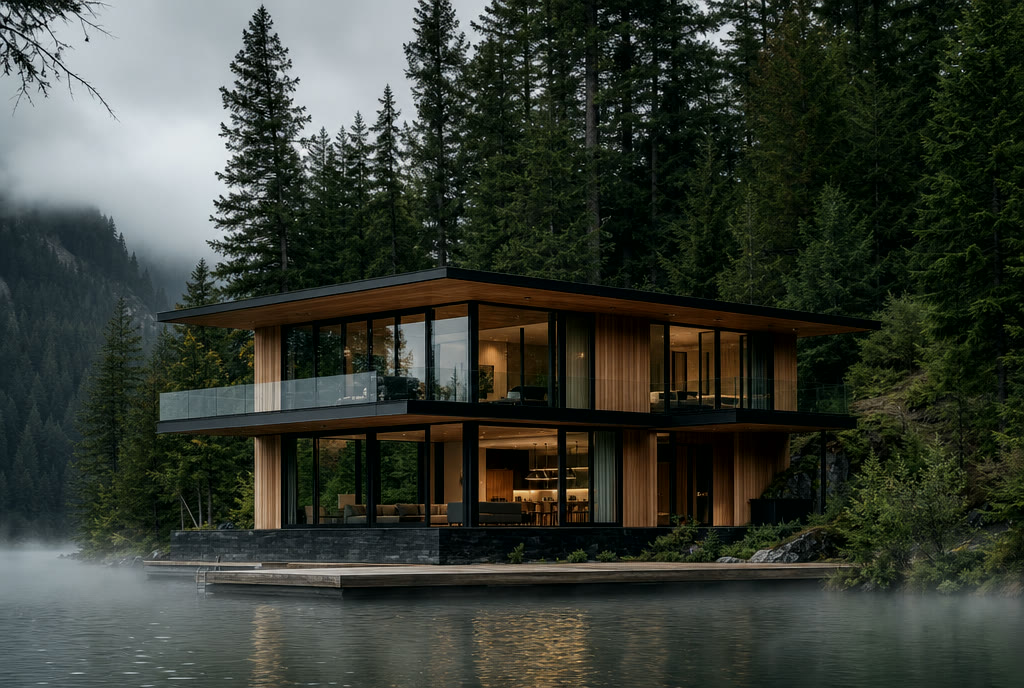
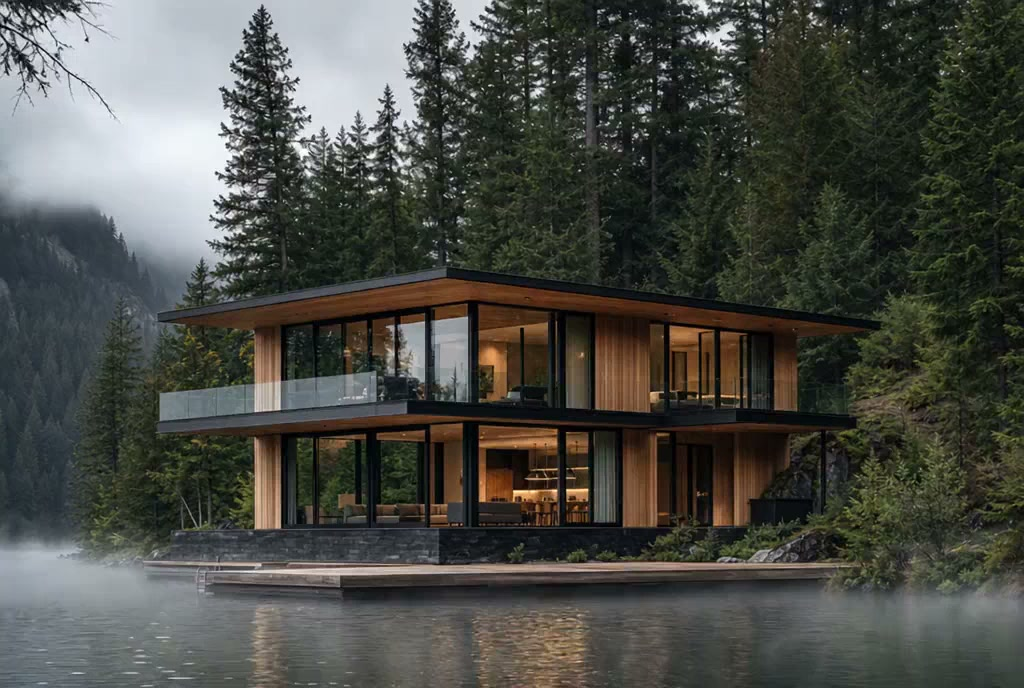
The flight: seven legs stitched, encoded for scrubbing, and working
37.3s of continuous camera move driven by scroll. Three bugs were worth the
trip, and all three now live in LESSON.md as stop points:

1. python -m http.server does not answer Range requests, so Chrome marks the
   media not seekable: readyState 4, duration correct, seekable.end(0) === 0,
   and every currentTime assignment clamps to zero. No error fires. The
   progress rail tracks the scroll perfectly while the picture stays frozen,
   which makes it look exactly like a JS bug. scripts/serve.py answers 206.

2. A `ready` flag set from a loadedmetadata listener attached after video.src
   raced and stayed false, skipping every seek. readyState is already the
   source of truth; the parallel flag only existed to get out of sync.

3. The CDN served two wrong objects for correct URLs, so two legs downloaded
   as duplicates of two others. Nothing downstream would have caught it -
   concat stitches the wrong order and the flight simply teleports. Legs are
   now identified by content: scripts/identify-legs.ps1 matches every clip's
   first and last frame against all ten anchors. Same image scores 1.1-3.9,
   a different room scores 40+, so the verdict is not a judgement call.

diff --git a/index.html b/index.html
@@ -2049,8 +2049,18 @@ legend { padding: 0; }
        scroll seven screens of black. */
     video.addEventListener('error', function () { section.classList.add('is-static'); });
 
-    var target = 0, current = 0, raf = null, ready = false;
-    video.addEventListener('loadedmetadata', function () { ready = true; tick(); });
+    var target = 0, current = 0, raf = null;
+
+    /* No `ready` flag. An earlier version set one from a loadedmetadata
+       listener attached just after video.src, which raced: metadata could
+       arrive before the listener, the flag stayed false, and every seek was
+       skipped forever. The symptom was cruel — the progress rail tracked the
+       scroll perfectly while the picture never moved, because the rail is
+       written after the seek block.
+       readyState is already the source of truth. Read it directly. */
+    video.addEventListener('loadedmetadata', kick);
+    video.addEventListener('loadeddata', kick);
+    function kick() { if (raf === null) raf = requestAnimationFrame(tick); }
 
     function progress() {
       var travel = section.offsetHeight - window.innerHeight;
@@ -2068,8 +2078,9 @@ legend { padding: 0; }
       if (Math.abs(target - current) < 0.0004) current = target;
 
       /* readyState >= 2 is a gate, not politeness: seeking before there is
-         data throws and leaves a black frame on screen. */
-      if (ready && video.readyState >= 2 && video.duration) {
+         data throws and leaves a black frame on screen. isFinite guards the
+         NaN duration a stream reports before metadata lands. */
+      if (video.readyState >= 2 && isFinite(video.duration)) {
         var t = current * video.duration;
         if (typeof video.fastSeek === 'function') video.fastSeek(t);
         else video.currentTime = t;

diff --git a/scripts/serve.py b/scripts/serve.py
@@ -1,0 +1,122 @@
+#!/usr/bin/env python3
+"""Static dev server that supports HTTP Range requests.
+
+Why this file exists instead of `python -m http.server`:
+
+The scroll-scrub technique is nothing but repeated assignment to
+`video.currentTime`. A browser will only honour that if it can fetch arbitrary
+byte ranges of the media file, which means the server has to answer
+`Range: bytes=...` with `206 Partial Content`.
+
+Python's stdlib SimpleHTTPRequestHandler does not. It ignores the Range header
+and returns the whole file with `200`. Chrome then marks the resource as not
+seekable: `video.seekable.end(0)` reads 0, every `currentTime` assignment
+clamps back to 0, and the flight is frozen on frame one.
+
+The cruel part is the symptom. `readyState` reaches 4, `duration` reads
+correctly, no error fires, and the progress rail tracks the scroll perfectly -
+so it looks exactly like a bug in your JavaScript. It is not. It is the server.
+
+Every real static host (nginx, Vercel, Netlify, GitHub Pages, S3, Cloudflare)
+supports Range out of the box, so this only ever bites in local development.
+
+    python scripts/serve.py           # http://localhost:8080
+    python scripts/serve.py 3000
+"""
+
+import os
+import re
+import sys
+from functools import partial
+from http.server import SimpleHTTPRequestHandler, ThreadingHTTPServer
+
+RANGE_RE = re.compile(r"bytes=(\d*)-(\d*)")
+
+
+class RangeHandler(SimpleHTTPRequestHandler):
+    def send_head(self):
+        header = self.headers.get("Range")
+        if not header:
+            return super().send_head()
+
+        path = self.translate_path(self.path)
+        if os.path.isdir(path):
+            return super().send_head()
+
+        match = RANGE_RE.fullmatch(header.strip())
+        if not match:
+            return super().send_head()
+
+        try:
+            handle = open(path, "rb")
+        except OSError:
+            self.send_error(404)
+            return None
+
+        size = os.fstat(handle.fileno()).st_size
+        start_raw, end_raw = match.groups()
+
+        if start_raw:
+            start = int(start_raw)
+            end = int(end_raw) if end_raw else size - 1
+        else:
+            # suffix form, "bytes=-500" means the last 500 bytes
+            start = max(0, size - int(end_raw))
+            end = size - 1
+
+        if start >= size:
+            handle.close()
+            self.send_response(416)
+            self.send_header("Content-Range", "bytes */%d" % size)
+            self.end_headers()
+            return None
+
+        end = min(end, size - 1)
+        handle.seek(start)
+
+        self.send_response(206)
+        self.send_header("Content-Type", self.guess_type(path))
+        self.send_header("Content-Range", "bytes %d-%d/%d" % (start, end, size))
+        self.send_header("Content-Length", str(end - start + 1))
+        self.send_header("Accept-Ranges", "bytes")
+        self.end_headers()
+        return _Window(handle, end - start + 1)
+
+    def end_headers(self):
+        # Advertise Range support on every response, and keep the browser from
+        # caching a stale build while you iterate.
+        self.send_header("Accept-Ranges", "bytes")
+        self.send_header("Cache-Control", "no-store")
+        super().end_headers()
+
+    def log_message(self, fmt, *args):
+        if "200" not in fmt % args and "206" not in fmt % args:
+            super().log_message(fmt, *args)
+
+
+class _Window:
+    """Reads at most `remaining` bytes, so copyfile stops at the range end."""
+
+    def __init__(self, handle, remaining):
+        self.handle = handle
+        self.remaining = remaining
+
+    def read(self, amount=-1):
+        if self.remaining <= 0:
+            return b""
+        if amount < 0 or amount > self.remaining:
+            amount = self.remaining
+        chunk = self.handle.read(amount)
+        self.remaining -= len(chunk)
+        return chunk
+
+    def close(self):
+        self.handle.close()
+
+
+if __name__ == "__main__":
+    port = int(sys.argv[1]) if len(sys.argv) > 1 else 8080
+    root = os.path.dirname(os.path.dirname(os.path.abspath(__file__)))
+    handler = partial(RangeHandler, directory=root)
+    print("Serving %s on http://localhost:%d  (Range requests enabled)" % (root, port))
+    ThreadingHTTPServer(("", port), handler).serve_forever()

diff --git a/LESSON.md b/LESSON.md
@@ -45,6 +45,7 @@ scroll position  →  video.currentTime
 | חשבון Kolbo עם MCP מחובר | לייצר תמונות ווידאו |
 | חשבון Higgsfield (אופציונלי) | חלופה לוידאו |
 | ffmpeg מותקן | לקדד את הווידאו לגלילה |
+| שרת שתומך ב-HTTP Range | בלעדיו הסקראב מת. scripts/serve.py בריפו |
 | כ-1,300 קרדיטים | ראה טבלת עלויות למטה |
 
 לבדוק ש-ffmpeg עובד:
@@ -382,8 +383,42 @@ Subtle looping motion only: mist drifting right to left, small ripples on the
 water, leaves moving slightly. Everything else stays still.
 ```
 
-**פרומפט קצר מנצח פרומפט ארוך.** מודלי וידאו מוסיפים תנועה בנדיבות, וכל סעיף
-נוסף הוא עוד משהו להילחם בו.
+> **⚠ עצירה — הפרומפט הזה נכשל אצלנו, והכישלון שווה יותר מהתיקון.**
+>
+> הרצנו בדיוק את הפרומפט הזה. הווידאו חזר תקין: 151 פריימים, נגן, `readyState 4`,
+> ה-`currentTime` התקדם. **ולא זזה בו שום דבר.**
+>
+> ```text
+> scene_score בין פריימים עוקבים : 0.0001 – 0.004   (אפס מעשי)
+> הפרש בהירות פריים 0 מול פריים 150 : 3.1 מתוך 255   (1.2%)
+> ```
+>
+> תסתכל למה. בפרומפט יש **ארבע שלילות** — `no zoom in`, `no zoom out`,
+> `no camera move`, `everything else stays still` — ומילה חיובית אחת: `subtle`.
+> המודל עשה בדיוק את מה שביקשנו, כולל את החלק שלא התכוונו אליו.
+>
+> **הכלל שאנחנו מלמדים למעלה — "פרומפט קצר מנצח" — נכון לתנועת מצלמה ושגוי
+> לתנועת עולם.** כשמצטברות שלילות, המודל מפרש את כל הבקשה כ"אל תזיז", כולל את
+> מה שכן ביקשת שיזוז.
+>
+> **הניסוח הנכון: שלילה אחת לרסן את המצלמה, ופעלים קונקרטיים עם כמות להניע את
+> העולם.** לא `subtle` אלא "חוצה שליש מהמסגרת בחמש שניות":
+>
+> ```prompt
+> Locked-off tripod shot, the camera never moves.
+> Mist rolls steadily across the water from right to left, crossing a third of
+> the frame over five seconds. The lake surface ripples continuously. The fir
+> branches sway in a light breeze. Warm interior lights flicker faintly.
+> ```
+>
+> **ואיך תופסים את זה בלי לצפות בסרטון עשר פעמים** — תמדוד:
+>
+> ```bash
+> ffmpeg -i hero.mp4 -vf "select='gt(scene,0)',metadata=print" -f null -
+> ```
+>
+> `scene_score` מתחת ל-0.01 לאורך כל הקובץ פירושו שהוא תמונה סטילס יקרה.
+> תריץ את זה לפני שאתה מאשים את הדפדפן, את הקאש או את ה-`autoplay`.
 
 הקידוד:
 
@@ -461,6 +496,35 @@ Duration: 5s.
 
 מקור הפריימים הוא ה-PNG ברזולוציה מלאה מ-`media/anchors/`, לא ה-JPG הדחוס
 שנכנס לדף.
+
+**דגש: הפרומפט של הרגל חייב להסכים עם שני העוגנים שלה**
+
+שש הרגליים הראשונות מקבלות `Overcast daylight throughout`, כי שני העוגנים של
+כל אחת מהן מצולמים ביום מעונן. רגל 7 היא היחידה שעוברת מיום (אמבט) לשקיעה
+(מזח), ושם השורה הזו הופכת להוראה סותרת: המודל **חייב** להגיע לפריים אחרון
+בשקיעה, ובו זמנית מצווה עליו לא לשנות את האור. שם כותבים במקומה:
+
+```prompt
+The light shifts gradually from overcast day to dusk across the move.
+```
+
+הכלל: **אילוץ שסותר את אחד העוגנים אינו אילוץ, הוא באג.** לפני שאתה מריץ רגל,
+תקרא את הפרומפט שלה מול שתי התמונות ותשאל אם שתיהן יכולות להיות נכונות.
+
+> **⚠ עצירה — תקרת המקביליות של וידאו נמוכה מזו של תמונות, והחריגה מתחזה
+> לשגיאת קלט.**
+>
+> על תמונות שלחנו עשר קריאות במקביל בלי בעיה. הנחנו שאותו כלל חל על וידאו,
+> שלחנו שש, ו**שתיים חזרו `400 Bad Request`** — בדיוק שתי הקריאות האחרונות
+> שנשלחו.
+>
+> זו לא הייתה בעיה בעוגנים. זו הייתה חריגה מהתקרה, שהפלטפורמה מדווחת עליה
+> כשגיאת קלט ולא כעומס. **התסמין שולח אותך לבדוק את ה-URL של התמונה במקום
+> את הקצב.**
+>
+> **תקרה מעשית: תמונות כ-10 במקביל, וידאו 3 עד 5.** תשלח את הרגליים בשתי
+> מנות, לא במכה אחת. כישלונות לא מחויבים, אבל הם עולים לך זמן וריצה חוזרת.
+> ותמיד תספור — "3 מתוך 7 הצליחו" הוא דיווח, "הרגליים מוכנות" הוא שקר.
 
 ---
 
@@ -565,6 +629,48 @@ then remove the listener.
 **גובה הסקשן קובע את הקצב.** 700vh לטיסה של 35 שניות זה בערך 20vh לשנייה.
 פחות מ-100vh לשנייה של וידאו מרגיש נמרץ מדי.
 
+> **⚠ עצירה — השרת שלך ישבור את הסקראב, והתסמין יאשים את הקוד שלך.**
+>
+> זו המלכודת הכי אכזרית בכל השיעור, ואנחנו נפלנו בה.
+>
+> סקראב הוא רק השמה חוזרת ל-`video.currentTime`. הדפדפן יכבד אותה **רק אם הוא
+> יכול למשוך טווחי בייטים שרירותיים מקובץ המדיה** — כלומר רק אם השרת עונה על
+> `Range: bytes=...` בתשובת `206 Partial Content`.
+>
+> **`python -m http.server` לא תומך ב-Range.** הוא מתעלם מהכותרת ומחזיר את כל
+> הקובץ עם `200`. כרום מסמן את המדיה כלא ניתנת לחיפוש, וכל השמה נצמדת ל-0.
+>
+> ועכשיו תסתכל איך זה נראה כשזה קורה:
+>
+> ```text
+> readyState = 4          הכול נטען
+> duration   = 37.33      הדפדפן יודע בדיוק כמה הוא ארוך
+> seekable.end(0) = 0     ומסרב לזוז ממנו
+> currentTime = 12  ->  0
+> ```
+>
+> אין שגיאה. אין אזהרה בקונסולה. **ואם יש לך פס התקדמות שמצויר מה-lerp, הוא
+> יעקוב אחרי הגלילה בצורה מושלמת בזמן שהתמונה קפואה** — כלומר כל האינדיקציות
+> אומרות לך שהקוד עובד. תבזבז שעה על ה-JavaScript.
+>
+> **האבחון בשורה אחת:**
+>
+> ```prompt
+> In the browser console, read video.seekable.end(0). If it is 0 while
+> duration is correct, the server is not answering Range requests. It is not
+> the JavaScript.
+> ```
+>
+> כל אחסון סטטי אמיתי — nginx, Vercel, Netlify, GitHub Pages, S3, Cloudflare —
+> תומך ב-Range מהקופסה. זה נושך רק בפיתוח מקומי. בריפו יש
+> `scripts/serve.py` שכן תומך:
+>
+> ```bash
+> python scripts/serve.py     # http://localhost:8080
+> ```
+
+---
+
 > **⚠ עצירה — הפולבק שהכי קל לפספס.**
 > סקשן בגובה 700vh בלי וידאו הוא **שבעה מסכים ריקים** שהמשתמש גולל בהם לשווא.
 > כל פולבק חייב גם לכווץ את הגובה, לא רק להסתיר את הווידאו. זו התקלה שהכי קל
@@ -609,7 +715,11 @@ then remove the listener.
 - עוגנים דו־צדדיים: first ו-last frame נעולים על תמונות שכבר קיימות בעמוד
 - שמות קבצים נקבעים לפני שהקבצים קיימים
 - מספרים קונקרטיים בפרומפט במקום תיאורים איכותיים
-- פרומפטים קצרים למודלי וידאו, ארוכים למודלי קוד
+- פרומפטים קצרים למודלי וידאו, ארוכים למודלי קוד — אבל **שלילה מרסנת מצלמה,
+  פועל מניע עולם.** ארבע שלילות מייצרות תמונת סטילס יקרה
+- למדוד `scene_score` על כל וידאו לפני שמאשימים את הדפדפן
+- להריץ וידאו בשתי מנות של 3 עד 5, לא במכה אחת. חריגה מתחזה ל-400
+- לקרוא את פרומפט הרגל מול שני העוגנים שלה. אילוץ שסותר עוגן הוא באג
 - להגדיר את כל סולם הטוקנים לפני השימוש הראשון — טוקן חסר הוא אפס שקט
 - משפחת פונט אחת, והיררכיה ממשקל ומ-tracking
 - כרום כהה מתחת לכל דבר שצף על צילום

diff --git a/README.md b/README.md
@@ -58,16 +58,17 @@ scripts/
 - [x] שלב 2 — header + hero + ווידג'ט הזמנות
 - [x] שלב 3א — 10 הרנדרים (GPT Image 2, שני סבבים, 160 קרדיטים)
 - [x] שלב 4 — intro, סטטיסטיקות, The Spaces
-- [ ] שלב 5 — amenities, גלריה, לייטבוקס, reviews
-- [ ] שלב 6 — rates, host, closing band, footer
-- [ ] שלב 7 — encode-hero.sh + וידאו ההירו
-- [ ] שלב 8 — סקשן הטיסה ומנוע הסקראב
-- [ ] שלב 9 — 7 הרגליים + build-flight.sh
+- [x] שלב 5 — amenities, גלריה, לייטבוקס, reviews
+- [x] שלב 6 — rates, host, closing band, footer
+- [x] שלב 7 — encode-hero.sh + וידאו ההירו
+- [x] שלב 8 — סקשן הטיסה ומנוע הסקראב
+- [x] שלב 9 — 7 הרגליים + build-flight.sh
 - [ ] שלב 10 — case-study.html
 
-עשרת הרנדרים אמיתיים (GPT Image 2, 1024x688). `11_host.jpg` עדיין פלייסהולדר
+כל המדיה אמיתית. **הרצה מקומית חייבת שרת שתומך ב-HTTP Range** —
+`python scripts/serve.py` ואז <http://localhost:8080>. עם `python -m http.server`\nהסקראב מת בשקט. עשרת הרנדרים ב-1024x688. `11_host.jpg` עדיין פלייסהולדר
 מוצהר — צריך תמונה של אנשים אמיתיים, לא רנדר.
-`hero-loop.mp4` ו-`flight_*.mp4` עדיין לא קיימים. הדף נופל לפוסטר עד שהם יגיעו.
+
 
 הרנדרים מיוצרים ב-Kolbo. ראה [.kolbo/production.md](.kolbo/production.md) ליומן
 ההרצות, ל-generation ids ולעלות בפועל.
